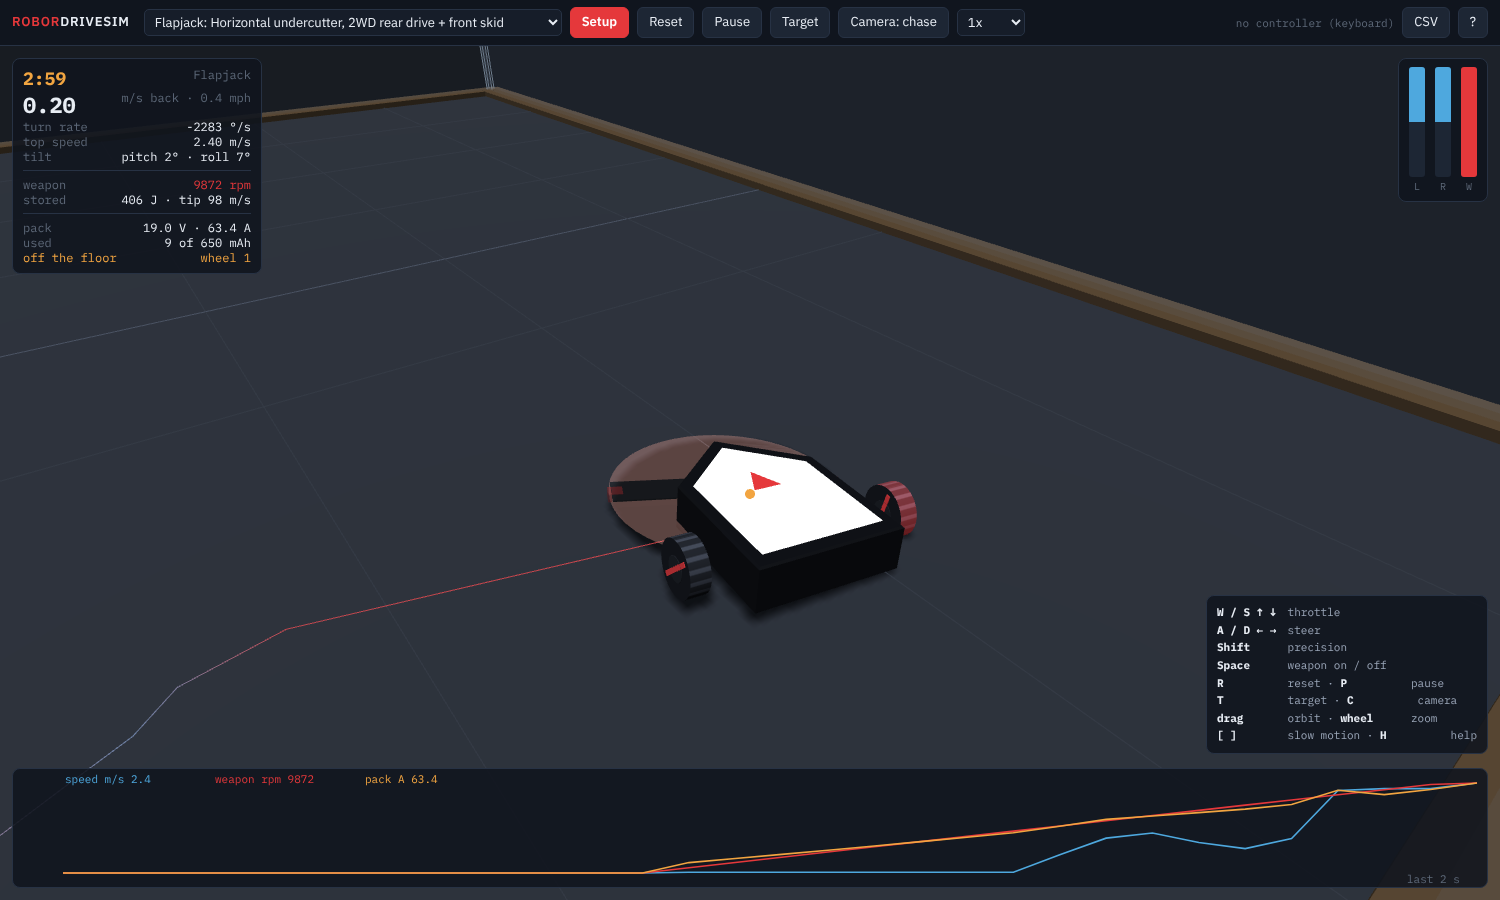
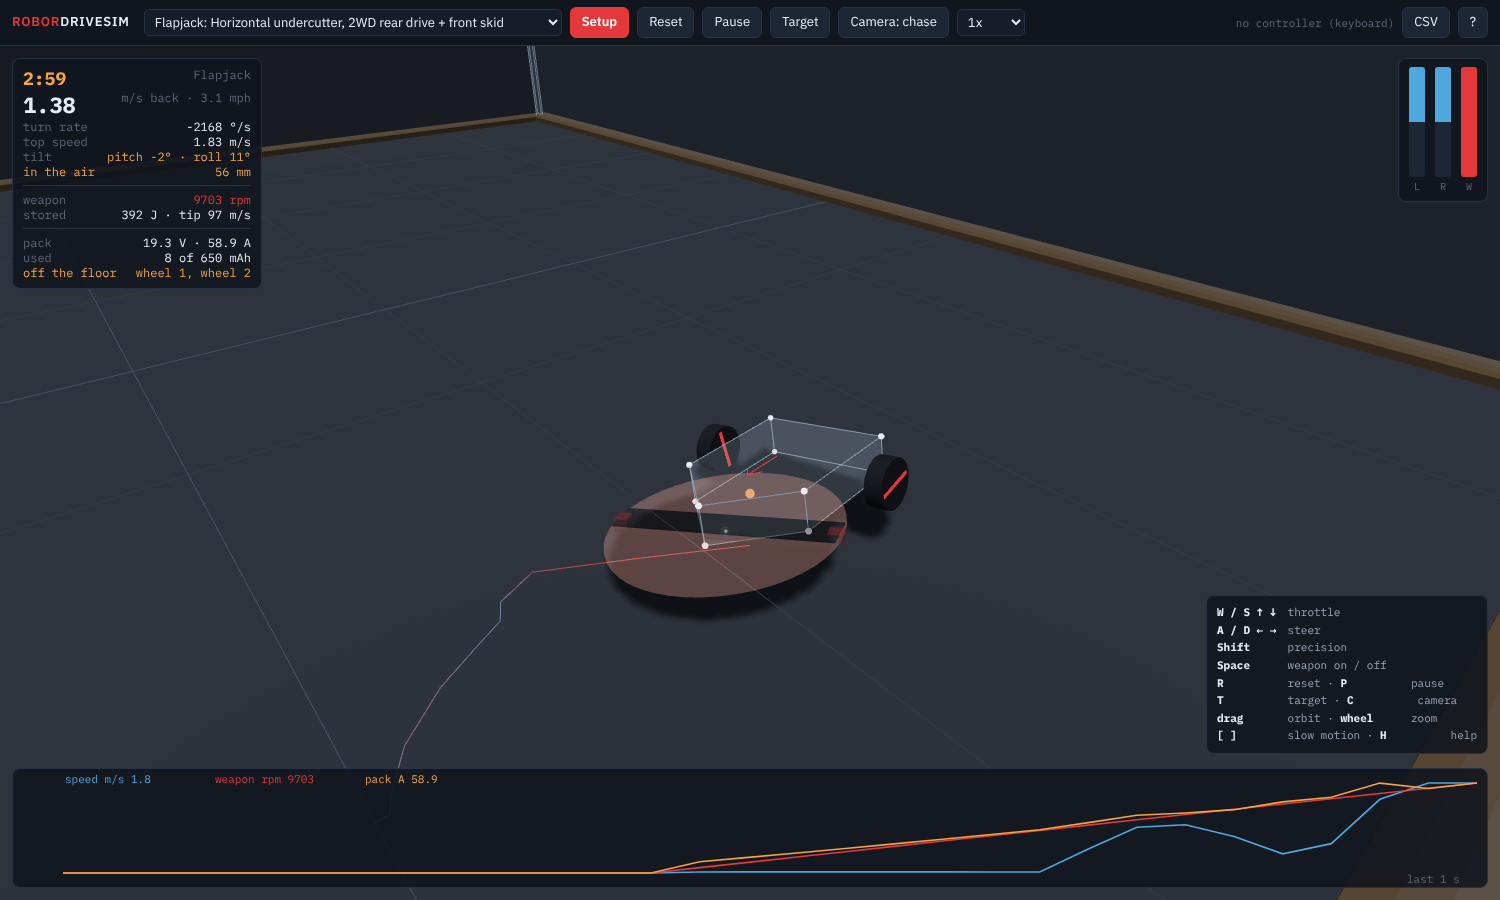
View: the body as a see-through hull of its points (as REDblocks draws it), plain wheels
Claude-Session: https://claude.ai/code/session_01P1Gac4LTUedDLwMemzzTCy

diff --git a/src/render3d.js b/src/render3d.js
@@ -4,7 +4,7 @@
   "use strict";
   const T = root.THREE;
   const COL = { bg: 0x07090d, floor: 0x262a31, grid: 0x343a45, grid4: 0x4a5262, wall: 0x9fb3c8, skirt: 0x4a3a28,
-                chassis: 0x101216, top: 0xe9e6e1, wheel: 0x15171c, tire: 0x23262d, metal: 0xb9c0cb, red: 0xe5383b, cog: 0xf2a541,
+                chassis: 0x101216, top: 0xe9e6e1, hull: 0x9fb3c8, point: 0xe8edf4, wheel: 0x15171c, tire: 0x23262d, metal: 0xb9c0cb, red: 0xe5383b, cog: 0xf2a541,
                 target: 0x5d6470, skid: 0xc0c7d2 };
 
   class View {
@@ -73,30 +73,25 @@
       const g = new T.Group(); this.robotG = g;
       const mm = v => v / 1000;
       const z0 = mm(S.body.z0 !== undefined ? S.body.z0 : 5), z1 = mm(S.body.z1 !== undefined ? S.body.z1 : 40);
+      // the body as REDblocks draws it: a see-through hull of its points, the points themselves, a heading arrow
       const shape = new T.Shape(S.body.pts.map(p => new T.Vector2(mm(p[0]), mm(p[1]))));
-      const body = new T.Mesh(new T.ExtrudeGeometry(shape, { depth: z1 - z0, bevelEnabled: true, bevelThickness: 0.0015, bevelSize: 0.0015, bevelSegments: 1 }),
-                              new T.MeshStandardMaterial({ color: S.color || COL.chassis, roughness: 0.6, metalness: 0.2 }));
-      body.position.z = z0; body.castShadow = true; body.receiveShadow = true; g.add(body);
-      // top plate
+      const hullGeo = new T.ExtrudeGeometry(shape, { depth: z1 - z0, bevelEnabled: false });
+      const hull = new T.Mesh(hullGeo, new T.MeshBasicMaterial({ color: COL.hull, transparent: true, opacity: 0.13, depthWrite: false, side: T.DoubleSide }));
+      hull.position.z = z0; g.add(hull);
+      const edges = new T.LineSegments(new T.EdgesGeometry(hullGeo), new T.LineBasicMaterial({ color: COL.hull, transparent: true, opacity: 0.75 }));
+      edges.position.z = z0; g.add(edges);
+      const dotM = new T.MeshBasicMaterial({ color: COL.point });
+      for (const p of S.body.pts) for (const z of [z0, z1]) { const d = new T.Mesh(new T.SphereGeometry(0.0028, 8, 6), dotM); d.position.set(mm(p[0]), mm(p[1]), z); g.add(d); }
       const cx = S.body.pts.reduce((a, p) => a + p[0], 0) / S.body.pts.length, cy = S.body.pts.reduce((a, p) => a + p[1], 0) / S.body.pts.length;
-      const inset = new T.Shape(S.body.pts.map(p => new T.Vector2(mm(cx + 0.86 * (p[0] - cx)), mm(cy + 0.86 * (p[1] - cy)))));
-      const top = new T.Mesh(new T.ShapeGeometry(inset), new T.MeshStandardMaterial({ color: S.top || COL.top, roughness: 0.8 }));
-      top.position.z = z1 + 0.0016; g.add(top);
-      // the forward arrow on the top
-      const arrow = new T.Mesh(new T.ShapeGeometry(new T.Shape([new T.Vector2(mm(cx + 32), mm(cy)), new T.Vector2(mm(cx + 6), mm(cy + 12)), new T.Vector2(mm(cx + 6), mm(cy - 12))])),
-                               new T.MeshBasicMaterial({ color: COL.red }));
-      arrow.position.z = z1 + 0.0019; g.add(arrow);
+      const arrowGeo = new T.BufferGeometry().setFromPoints([new T.Vector3(mm(cx - 10), mm(cy), z1), new T.Vector3(mm(cx + 30), mm(cy), z1),
+        new T.Vector3(mm(cx + 30), mm(cy), z1), new T.Vector3(mm(cx + 20), mm(cy + 8), z1), new T.Vector3(mm(cx + 30), mm(cy), z1), new T.Vector3(mm(cx + 20), mm(cy - 8), z1)]);
+      g.add(new T.LineSegments(arrowGeo, new T.LineBasicMaterial({ color: COL.red })));
       // wheels (cylinder axis is y in three.js, as the axle)
       this.wheelMeshes = S.wheels.map(q => {
         const r = mm(q.d / 2), w = mm(q.w || 16), wg = new T.Group();
-        const tread = this._treadTex();
-        const tire = new T.Mesh(new T.CylinderGeometry(r, r, w, 32, 1, false), [new T.MeshStandardMaterial({ map: tread, roughness: 0.9 }),
-          new T.MeshStandardMaterial({ color: COL.wheel, roughness: 0.7 }), new T.MeshStandardMaterial({ color: COL.wheel, roughness: 0.7 })]);
+        const tire = new T.Mesh(new T.CylinderGeometry(r, r, w, 28), new T.MeshStandardMaterial({ color: q.driven ? COL.wheel : 0x3a3f4a, roughness: 0.8, emissive: 0x000000 }));
         tire.castShadow = true; wg.add(tire);
-        const hub = new T.Mesh(new T.CylinderGeometry(r * 0.45, r * 0.45, w * 1.04, 16), new T.MeshStandardMaterial({ color: q.driven ? 0x3a3f4a : 0x5d6878, metalness: 0.5, roughness: 0.4 }));
-        wg.add(hub);
-        // a spoke so turning shows
-        const spoke = new T.Mesh(new T.BoxGeometry(r * 1.6, w * 1.06, r * 0.18), new T.MeshStandardMaterial({ color: COL.red }));
+        const spoke = new T.Mesh(new T.BoxGeometry(r * 1.7, w * 1.04, r * 0.16), new T.MeshBasicMaterial({ color: COL.red }));
         wg.add(spoke);
         wg.position.set(mm(q.x), mm(q.y), r); g.add(wg);
         return { g: wg, tire, angle: 0 };
@@ -193,7 +188,7 @@
         const k = R._wg ? R._wg[i] : i, om = st.groups[k] || 0;
         w.angle += om * dtSim;
         w.g.rotation.y = w.angle;
-        const ld = st.wheels[i]; w.tire.material[0].emissive = new T.Color(ld && ld.slip > 0.3 ? 0x5a1010 : 0x000000);
+        const ld = st.wheels[i]; w.tire.material.emissive.setHex(ld && ld.slip > 0.3 ? 0x5a1010 : 0x000000);
       });
       if (this.weapon) {
         const W = this.weapon, rps = st.ww / (2 * Math.PI);
